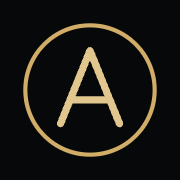
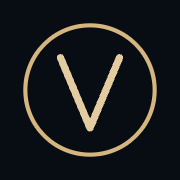
chore(brand): rename site to ViaCentral Mobility
Update the mark, favicon, apple icon and OG image, and the placeholder
addresses that follow the brand.

Changed region(s): [[0.3056, 0.25, 0.6944, 0.75]]

diff --git a/frontend/src/lib/seo.ts b/frontend/src/lib/seo.ts
@@ -12,8 +12,8 @@ interface PageMeta {
   noIndex?: boolean
 }
 
-/** Picture shown when a page is shared in a chat or on social media (`public/og.png`). */
-const previewImage = { url: `${siteUrl}/og.png`, width: 1200, height: 630, alt: `${site.name} ${site.descriptor} — ${site.city}` }
+/** Picture shown when a page is shared in a chat or on social media (`public/og.jpg`). */
+const previewImage = { url: `${siteUrl}/og.jpg`, width: 1200, height: 630, alt: `${site.name} ${site.descriptor} — ${site.city}` }
 
 /** Title, description, canonical URL, `hreflang` alternates and Open Graph tags for a page. */
 export function pageMetadata({ locale, path, title, description, noIndex }: PageMeta): Metadata {

diff --git a/frontend/src/content/site.ts b/frontend/src/content/site.ts
@@ -4,13 +4,13 @@
  * Contact details, company data and all page content are edited in the
  * operations console (`/admin`), not here.
  *
- * PLACEHOLDER: the brand name is an example. If it changes, also replace the
- * images that carry it (see "Before going live" in the README).
+ * If the name changes, also replace the images that carry it (see "Before
+ * going live" in the README).
  */
 export const site = {
-  name: 'Alteza',
+  name: 'ViaCentral',
   /** Shown next to the name in the logo and page titles. */
-  descriptor: 'Chauffeurs',
+  descriptor: 'Mobility',
   city: 'Madrid',
   country: 'Spain',
 } as const

diff --git a/backend/src/db/content/settings.ts b/backend/src/db/content/settings.ts
@@ -9,7 +9,7 @@ import type { SiteSettings } from '../../modules/content/schemas.js'
 export const DEFAULT_SITE_SETTINGS: SiteSettings = {
   phone: '+34 900 000 000',
   whatsapp: '34900000000',
-  email: 'hello@alteza.example',
+  email: 'hello@viacentralmobility.example',
   social: { instagram: '', facebook: '', tripadvisor: '', google: '' },
   legal: {
     companyName: '[Company legal name]',

diff --git a/frontend/public/images/CREDITS.md b/frontend/public/images/CREDITS.md
@@ -30,6 +30,7 @@ Replace any of them with your own photographs in the operations console
 | `journal/barajas.jpg` | Madrid–Barajas Terminal 4, inside | [16292057](https://www.pexels.com/photo/modern-airport-terminal-16292057/) | radubradu |
 | `journal/cabin.jpg` | Rear seats of a luxury car | [9651478](https://www.pexels.com/photo/a-luxurious-car-interior-9651478/) | ammy-k |
 | `site/hero.jpg` | Gran Vía and the Metropolis building at night | [165637](https://www.pexels.com/photo/vehicle-on-road-with-high-rise-building-time-lapse-photography-165637/) | carlosr |
+| `../og.jpg` | Link-preview picture, composed from `site/hero.jpg` | [165637](https://www.pexels.com/photo/vehicle-on-road-with-high-rise-building-time-lapse-photography-165637/) | carlosr |
 | `site/metropolis.jpg` | The Metropolis building from above | [3254729](https://www.pexels.com/photo/yellow-and-beige-high-rise-building-3254729/) | alexazabache |
 | `site/chauffeur-door.jpg` | Chauffeur opening a car door | [15774577](https://www.pexels.com/photo/man-opening-car-door-for-woman-15774577/) | Pexels contributor |
 | `site/chauffeur-coat.jpg` | Chauffeur beside a saloon | [7594130](https://www.pexels.com/photo/a-man-going-inside-the-car-7594130/) | pavel-danilyuk |

diff --git a/README.md b/README.md
@@ -30,7 +30,7 @@ it prints `Ready` when the site can be opened:
 
 - Website: <https://luxury-taxi-service.ddev.site>
 - Operations console: <https://luxury-taxi-service.ddev.site/en/admin> —
-  sign in with `admin@alteza.example` / `admin-dev-password` (development only, set in
+  sign in with `admin@viacentralmobility.example` / `admin-dev-password` (development only, set in
   [`.ddev/config.yaml`](.ddev/config.yaml))
 
 If the browser warns about the certificate, run `mkcert -install` once and restart the browser.
